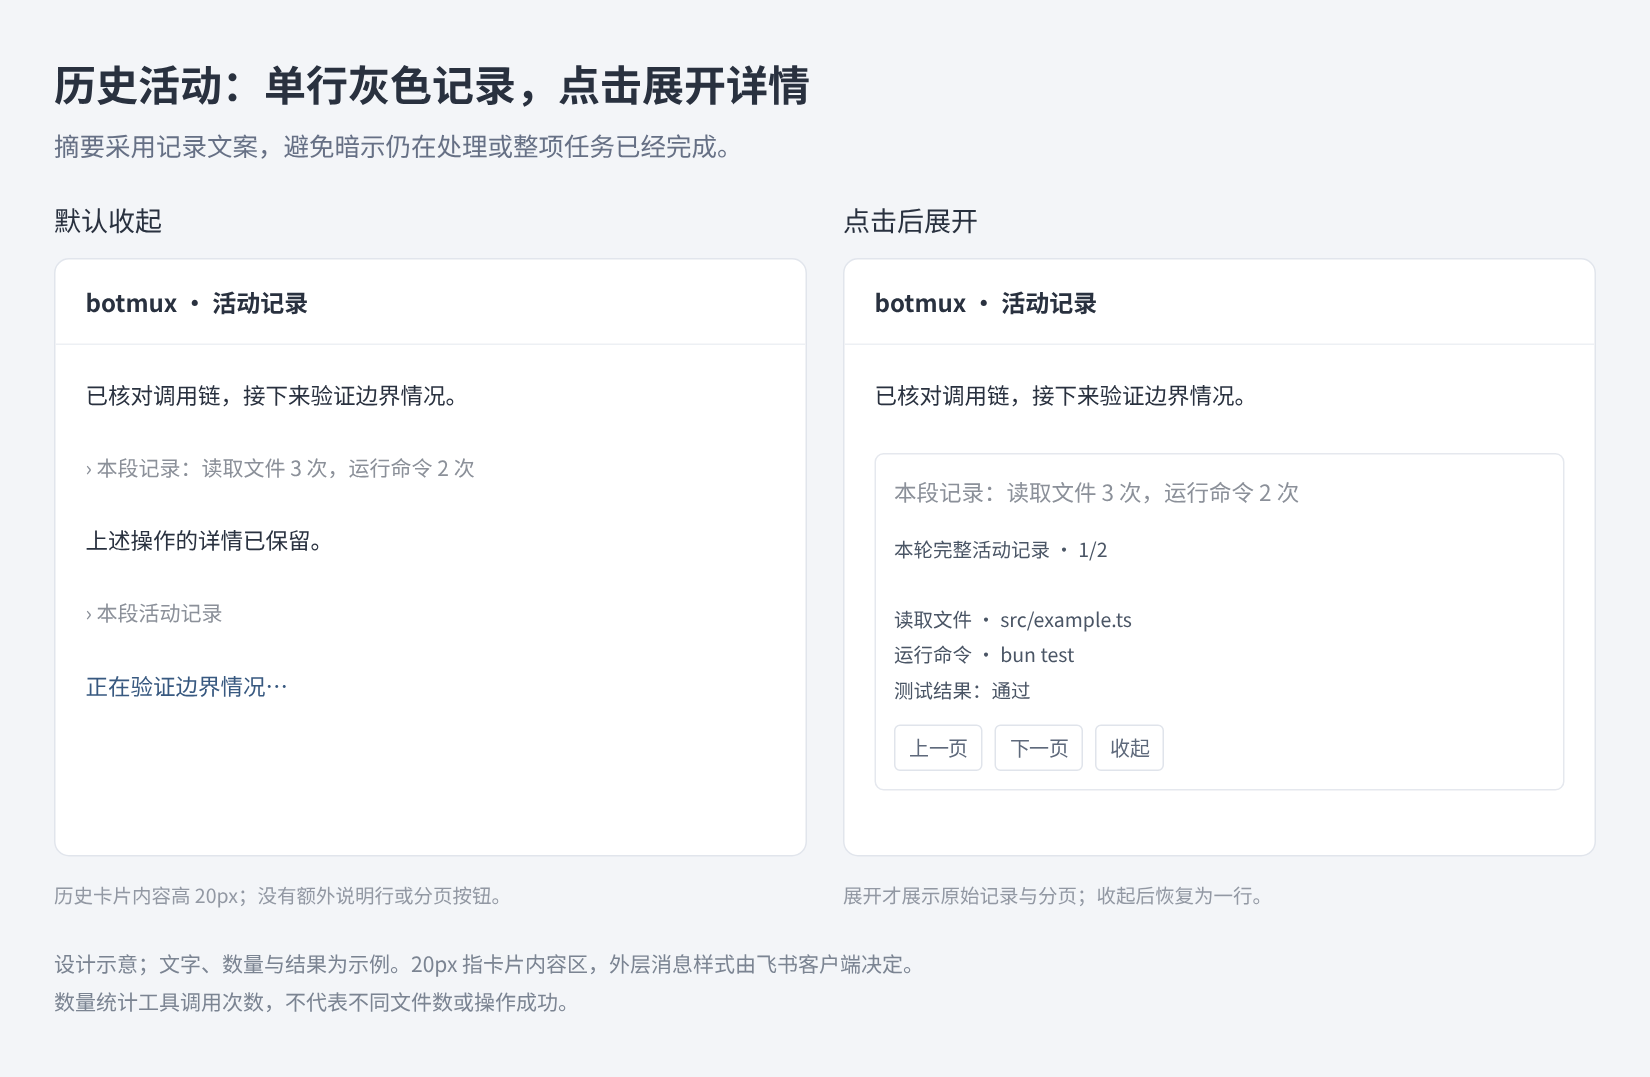
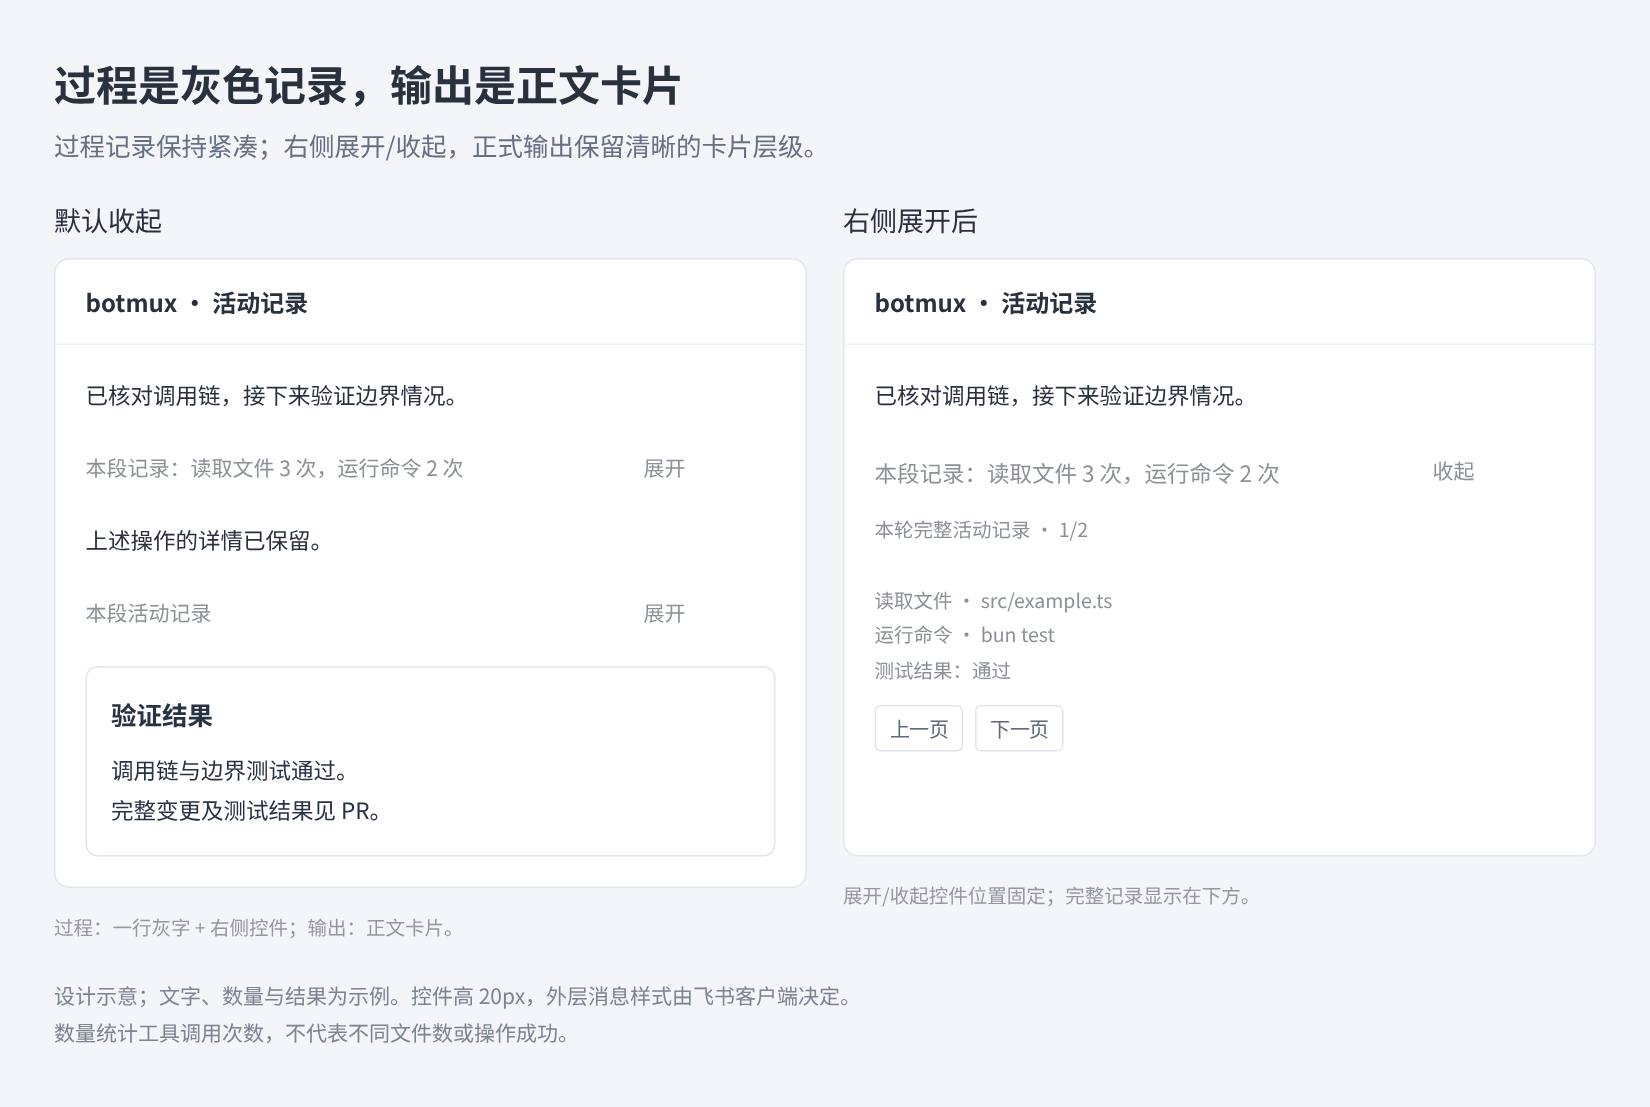
fix(cot): 过程摘要右侧独立收展并区分输出样式

diff --git a/test/cot-activity-card.test.ts b/test/cot-activity-card.test.ts
@@ -15,8 +15,8 @@ import { handleCotThinkingUpdate, finalizeCotMessage, abortCotMessage, sweepOrph
 
 const isOneLineHistory = (card: any): boolean => {
   const element = card.body.elements[0];
-  const row = element.tag === 'interactive_container' ? element.elements[0] : element;
-  return card.body.padding === '0px' && row.tag === 'div' && row.text.tag === 'plain_text'
+  const row = element.tag === 'column_set' ? element.columns[0].elements[0] : element;
+  return card.body.elements.length === 1 && card.body.padding === '0px' && row.tag === 'div' && row.text.tag === 'plain_text'
     && row.text.lines === 1 && row.text.text_color === 'grey';
 };
 
@@ -30,6 +30,8 @@ describe('activity card presentation', () => {
   it('uses a gray concrete action summary without implying task completion', () => {
     const card = JSON.parse(buildActivityCard(eventHistory, true));
     expect(isOneLineHistory(card)).toBe(true);
+    expect(card.config.width_mode).toBe('compact');
+    expect(card.header).toBeUndefined();
     expect(card.body.elements[0].text.content).toBe('本段记录：读取文件 1 次，运行命令 1 次');
     expect(card.body.elements).toHaveLength(1);
     expect(JSON.stringify(card)).not.toMatch(/任务已完成|Completed|done_outlined/);
@@ -44,14 +46,14 @@ describe('activity card presentation', () => {
   ] as const)('never reuses ongoing or future narrative as a finished summary (english=%s)', (english, narrative, summary) => {
     const events = [ev('REASONING_MESSAGE_CONTENT', { delta: narrative })];
     const collapsed = JSON.parse(buildActivityCard(events, true, english, { cardId: 'history' }));
-    expect(collapsed.body.elements[0].elements[0].text.content).toBe(`› ${summary}`);
+    expect(collapsed.body.elements[0].columns[0].elements[0].text.content).toBe(summary);
     expect(collapsed.config.summary.content).toBe(summary);
     expect(JSON.stringify(collapsed)).not.toContain(narrative);
 
     const expanded = JSON.parse(buildActivityCard(events, true, english, { cardId: 'history', expanded: true }));
-    expect(expanded.body.elements[0].header.title.content).toBe(`<font color='grey'>${summary}</font>`);
+    expect(expanded.body.elements[0].columns[0].elements[0].text.content).toBe(summary);
     expect(expanded.config.summary.content).toBe(summary);
-    expect(expanded.body.elements[0].elements[1].content).toBe(narrative);
+    expect(expanded.body.elements[2].content).toBe(narrative);
     const live = JSON.parse(buildActivityCard(events, false, english));
     expect(live.config.summary.content).toBe(narrative);
   });
@@ -59,19 +61,22 @@ describe('activity card presentation', () => {
   it('shows a live operation and preserves earlier records in the expanded body', () => {
     const card = JSON.parse(buildActivityCard(eventHistory.slice(0, -1), false));
     expect(card.body.elements[0].header.title.content).toContain('正在执行命令');
+    expect(card.config.width_mode).toBe('compact');
+    expect(card.header).toBeUndefined();
+    expect(card.body.elements[0].header.icon.color).toBe('grey');
     expect(JSON.stringify(card)).toContain('Inspect access controls&#46;');
     expect(JSON.stringify(card)).toContain('本轮完整活动记录');
   });
 
   it('does not label a returned tool result as still executing', () => {
     const card = JSON.parse(buildActivityCard(eventHistory, false));
-    expect(card.body.elements[0].header.title.content).toBe('正在处理…');
+    expect(card.body.elements[0].header.title.content).toBe("<font color='grey'>正在处理…</font>");
   });
 
   it('does not turn transcript text into mentions, HTML or links', () => {
     const raw = '<at id=all></at> [secret](https://example.com) <font color=red>text</font>';
     const card = buildActivityCard([ev('REASONING_MESSAGE_CONTENT', { delta: raw })], true, false, { cardId: 'escaped', expanded: true });
-    const detail = JSON.parse(card).body.elements[0].elements[1].content;
+    const detail = JSON.parse(card).body.elements[2].content;
     expect(detail).toContain('&#60;at');
     expect(detail).not.toContain('<at');
     expect(detail).not.toContain('[secret]');
@@ -82,10 +87,10 @@ describe('activity card presentation', () => {
     const card = JSON.parse(buildActivityCard([ev('REASONING_MESSAGE_CONTENT', { delta: text })], true, false, { cardId: 'pages', expanded: true }));
     expect(Buffer.byteLength(JSON.stringify({ card: { type: 'card_json', data: JSON.stringify(card) }, sequence: 2147483647 }))).toBeLessThanOrEqual(30000);
     let rebuilt = '';
-    const total = Number(card.body.elements[0].elements[0].content.match(/1\/(\d+)/)[1]);
+    const total = Number(card.body.elements[1].content.match(/1\/(\d+)/)[1]);
     for (let page = 0; page < total; page++) {
       const next = JSON.parse(buildActivityCard([ev('REASONING_MESSAGE_CONTENT', { delta: text })], true, false, { cardId: 'pages', page, expanded: true }));
-      rebuilt += next.body.elements[0].elements[1].content;
+      rebuilt += next.body.elements[2].content;
       expect(Buffer.byteLength(JSON.stringify(next))).toBeLessThan(30000);
     }
     expect(rebuilt).toBe(text);
@@ -96,16 +101,16 @@ describe('activity card presentation', () => {
     expect(card).not.toContain('已完成');
     expect(activitySummary([], true)).toBe('Activity record');
     const empty = JSON.parse(buildActivityCard([], true, false, { cardId: 'empty', expanded: true }));
-    expect(empty.body.elements[0].elements[1].content).toBe('本段无可展示的活动内容。');
+    expect(empty.body.elements[2].content).toBe('本段无可展示的活动内容。');
     expect(JSON.stringify(empty)).not.toMatch(/等待|正在/);
     const live = JSON.parse(buildActivityCard([eventHistory[2], ev('TOOL_CALL_RESULT', { content: JSON.stringify({ type: 'text', text: '✓ 已完成' }) })], false));
-    expect(live.body.elements[0].header.title.content).toBe('正在处理…');
+    expect(live.body.elements[0].header.title.content).toBe("<font color='grey'>正在处理…</font>");
   });
 
   it('renders raw tables and other block syntax as literal text', () => {
     const text = '| a | b |\n|---|---|\n|1|2|\n\n'.repeat(5) + '---\n- list\n1. item\n:DONE:\n    indented';
     const card = JSON.parse(buildActivityCard([ev('TOOL_CALL_RESULT', { content: JSON.stringify({ type: 'code', code: text }) })], true, false, { cardId: 'literal', expanded: true }));
-    const detail = card.body.elements[0].elements[1].content;
+    const detail = card.body.elements[2].content;
     const tokens = new MarkdownIt().parse(detail, {});
     expect(tokens.some(t => ['table_open', 'hr', 'bullet_list_open', 'ordered_list_open', 'code_block'].includes(t.type))).toBe(false);
     expect(detail).toContain('&#124;');
@@ -227,7 +232,7 @@ describe('activity card lifecycle', () => {
     await sweepOrphanCotMessages('app');
     await showActivityPage('app', 'om_card1', 'oc_chat', 'card1', 0, false);
     expect(JSON.stringify(lastCard('card1'))).toContain('last saved step');
-    expect(lastCard('card1').body.elements[0].header.title.content).toContain("color='grey'");
+    expect(lastCard('card1').body.elements[0].columns[0].elements[0].text.text_color).toBe('grey');
   });
 
   it('does not reactivate a card after a failed retirement request', async () => {
@@ -341,16 +346,26 @@ describe('activity card lifecycle', () => {
     await drain(() => !existsSync(join(directory(), 'card-card1.json')));
     const compact = lastCard('card1');
     expect(isOneLineHistory(compact)).toBe(true);
-    expect(compact.body.elements[0]).toMatchObject({ height: '20px', padding: '0px', margin: '0px', has_border: false });
-    expect(compact.body.elements[0].elements).toHaveLength(1);
+    const header = compact.body.elements[0];
+    expect(header).toMatchObject({ tag: 'column_set', flex_mode: 'none', margin: '0px' });
+    expect(header.columns).toHaveLength(2);
+    expect(header.columns[0]).toMatchObject({ width: 'weighted', weight: 1 });
+    expect(header.columns[0].elements[0].text.content).toBe('本段活动记录');
+    const control = header.columns[1].elements[0];
+    expect(control).toMatchObject({ height: '20px', padding: '0px', margin: '0px', has_border: false });
+    expect(control.elements[0].text.content).toBe('展开');
+    expect(control.behaviors[0].value).toMatchObject({ action: 'get_cot_activity_toggle', card_id: 'card1', expanded: true });
     expect(JSON.stringify(compact)).not.toContain('collapsible_panel');
     expect(JSON.stringify(compact)).not.toContain('本轮完整活动记录');
 
     const expand = await handleActivityPageAction('app', 'om_card1', 'oc_chat', 'card1', 0, false, true);
     expect(isOneLineHistory(lastCard('card1'))).toBe(true);
     await expand.afterAck();
-    expect(lastCard('card1').body.elements[0].expanded).toBe(true);
-    expect(lastCard('card1').body.elements[0].elements[1].content).toBe('Full detail '.repeat(100));
+    expect(isOneLineHistory(lastCard('card1'))).toBe(false);
+    const expandedControl = lastCard('card1').body.elements[0].columns[1].elements[0];
+    expect(expandedControl.elements[0].text.content).toBe('收起');
+    expect(expandedControl.behaviors[0].value.expanded).toBe(false);
+    expect(lastCard('card1').body.elements[2].content).toBe('Full detail '.repeat(100));
     const collapse = await handleActivityPageAction('app', 'om_card1', 'oc_chat', 'card1', 0, false, false);
     await collapse.afterAck();
     expect(isOneLineHistory(lastCard('card1'))).toBe(true);
@@ -434,7 +449,7 @@ describe('activity card lifecycle', () => {
     expect(published.data.sequence).toBe(sequence + 1);
     expect(isOneLineHistory(JSON.parse(published.data.card.data))).toBe(true);
     await showActivityPage('app', ref.messageId, 'oc_chat', cardId, 0, false);
-    const detail = lastCard(cardId).body.elements[0].elements[1].content;
+    const detail = lastCard(cardId).body.elements[2].content;
     expect(detail).toBe('a\n\nb');
     expect(existsSync(marker)).toBe(false);
     const saved = JSON.parse(readFileSync(join(config.session.dataDir, `cot-activity/app/${cardId}.json`), 'utf8'));

diff --git a/src/im/lark/cot-activity-card.ts b/src/im/lark/cot-activity-card.ts
@@ -182,20 +182,31 @@ export function buildActivityCard(events: readonly ActivityEvent[], retired: boo
   const items = itemsFrom(events);
   const last = items.at(-1);
   const summary = activitySummary(events, english);
-  if (retired && !navigation?.expanded) {
-    const text = { tag: 'div', margin: '0px', text: {
-      tag: 'plain_text', content: `${navigation ? '› ' : ''}${summary.replace(/\s+/g, ' ')}`,
+  const historyText = { tag: 'div', margin: '0px', text: {
+      tag: 'plain_text', content: summary,
       text_color: 'grey', text_size: 'normal', lines: 1,
-    } };
-    // An ended segment is one line, not a collapsed panel with default header
-    // padding. Details are rendered only after an explicit click.
-    return stampBotmuxCallbackMarkers(JSON.stringify({ schema: '2.0',
-      config: { update_multi: true, width_mode: 'default', summary: { content: summary } },
-      body: { padding: '0px', vertical_spacing: '0px', elements: navigation ? [{
+  } };
+  // Keep the summary itself plain and reserve a fixed-width control on the
+  // right. A 20px text control avoids a regular button's minimum padding;
+  // flex_mode=none keeps it beside the truncated text on narrow screens too.
+  const historyHeader = navigation ? {
+    tag: 'column_set', flex_mode: 'none', horizontal_spacing: '8px', margin: '0px',
+    columns: [
+      { tag: 'column', width: 'weighted', weight: 1, vertical_align: 'center', padding: '0px', elements: [historyText] },
+      { tag: 'column', width: english ? '64px' : '40px', vertical_align: 'center', padding: '0px', elements: [{
         tag: 'interactive_container', width: 'fill', height: '20px', padding: '0px', margin: '0px', has_border: false,
-        behaviors: [{ type: 'callback', value: { action: 'get_cot_activity_toggle', card_id: navigation.cardId, expanded: true } }],
-        elements: [text],
-      }] : [text] },
+        behaviors: [{ type: 'callback', value: { action: 'get_cot_activity_toggle', card_id: navigation.cardId, expanded: !navigation.expanded } }],
+        elements: [{ tag: 'div', margin: '0px', text: { tag: 'plain_text',
+          content: navigation.expanded ? (english ? 'Collapse' : '收起') : (english ? 'Expand' : '展开'),
+          text_color: 'grey', text_size: 'normal', text_align: 'right', lines: 1 } }],
+      }] },
+    ],
+  } : historyText;
+  if (retired && !navigation?.expanded) {
+    // Details are rendered only after an explicit click on the right control.
+    return stampBotmuxCallbackMarkers(JSON.stringify({ schema: '2.0',
+      config: { update_multi: true, width_mode: 'compact', summary: { content: summary } },
+      body: { padding: '0px', vertical_spacing: '0px', elements: [historyHeader] },
     }));
   }
   const lastText = last?.kind === 'text' ? last.text.replace(/\s+/g, ' ').trim() : '';
@@ -221,23 +232,23 @@ export function buildActivityCard(events: readonly ActivityEvent[], retired: boo
   pages.push(chunk);
   const page = Math.min(Math.max(0, navigation?.page ?? 0), pages.length - 1);
   const detail = pages[page];
-  const title = retired ? `<font color='grey'>${plain(summary)}</font>` : plain(live);
   const pageButtons = pages.length > 1 && navigation ? [{ tag: 'column_set', columns: [
     { tag: 'column', width: 'auto', elements: [{ tag: 'button', text: { tag: 'plain_text', content: english ? 'Previous' : '上一页' }, disabled: page === 0,
       behaviors: [{ type: 'callback', value: { action: 'get_cot_activity_page', card_id: navigation.cardId, page: page - 1 } }] }] },
     { tag: 'column', width: 'auto', elements: [{ tag: 'button', text: { tag: 'plain_text', content: english ? 'Next' : '下一页' }, disabled: page === pages.length - 1,
       behaviors: [{ type: 'callback', value: { action: 'get_cot_activity_page', card_id: navigation.cardId, page: page + 1 } }] }] },
   ] }] : [];
-  const collapseButton = retired && navigation ? [{ tag: 'button', text: { tag: 'plain_text', content: english ? 'Collapse' : '收起' },
-    behaviors: [{ type: 'callback', value: { action: 'get_cot_activity_toggle', card_id: navigation.cardId, expanded: false } }] }] : [];
-  const card = stampBotmuxCallbackMarkers(JSON.stringify({ schema: '2.0', config: { update_multi: true, width_mode: 'default', summary: { content: retired ? summary : live } },
-    body: { padding: '4px 8px 4px 8px', elements: [{
-      tag: 'collapsible_panel', expanded: retired, padding: '0px',
-      header: { title: { tag: 'markdown', content: title },
-        icon: { tag: 'standard_icon', token: 'down_outlined', color: retired ? 'grey' : 'blue', size: '16px 16px' },
+  const details = [
+    { tag: 'markdown', content: `<font color='grey'>${english ? 'Full activity record for this turn' : '本轮完整活动记录'}${pages.length > 1 ? ` · ${page + 1}/${pages.length}` : ''}</font>` },
+    { tag: 'markdown', text_size: 'notation', content: detail }, ...pageButtons,
+  ];
+  const card = stampBotmuxCallbackMarkers(JSON.stringify({ schema: '2.0', config: { update_multi: true, width_mode: 'compact', summary: { content: retired ? summary : live } },
+    body: retired ? { padding: '0px', elements: [historyHeader, ...details] } : { padding: '4px 8px 4px 8px', elements: [{
+      tag: 'collapsible_panel', expanded: false, padding: '0px',
+      header: { title: { tag: 'markdown', content: `<font color='grey'>${plain(live)}</font>` },
+        icon: { tag: 'standard_icon', token: 'down_outlined', color: 'grey', size: '16px 16px' },
         icon_position: 'follow_text', icon_expanded_angle: -180 },
-      elements: [{ tag: 'markdown', content: `<font color='grey'>${english ? 'Full activity record for this turn' : '本轮完整活动记录'}${pages.length > 1 ? ` · ${page + 1}/${pages.length}` : ''}</font>` },
-        { tag: 'markdown', content: detail }, ...pageButtons, ...collapseButton],
+      elements: details,
     }] } }));
   if (Buffer.byteLength(JSON.stringify({ card: { type: 'card_json', data: card }, sequence: 2147483647 }), 'utf8') > 30_000) {
     throw new Error('Activity card exceeds byte budget');
